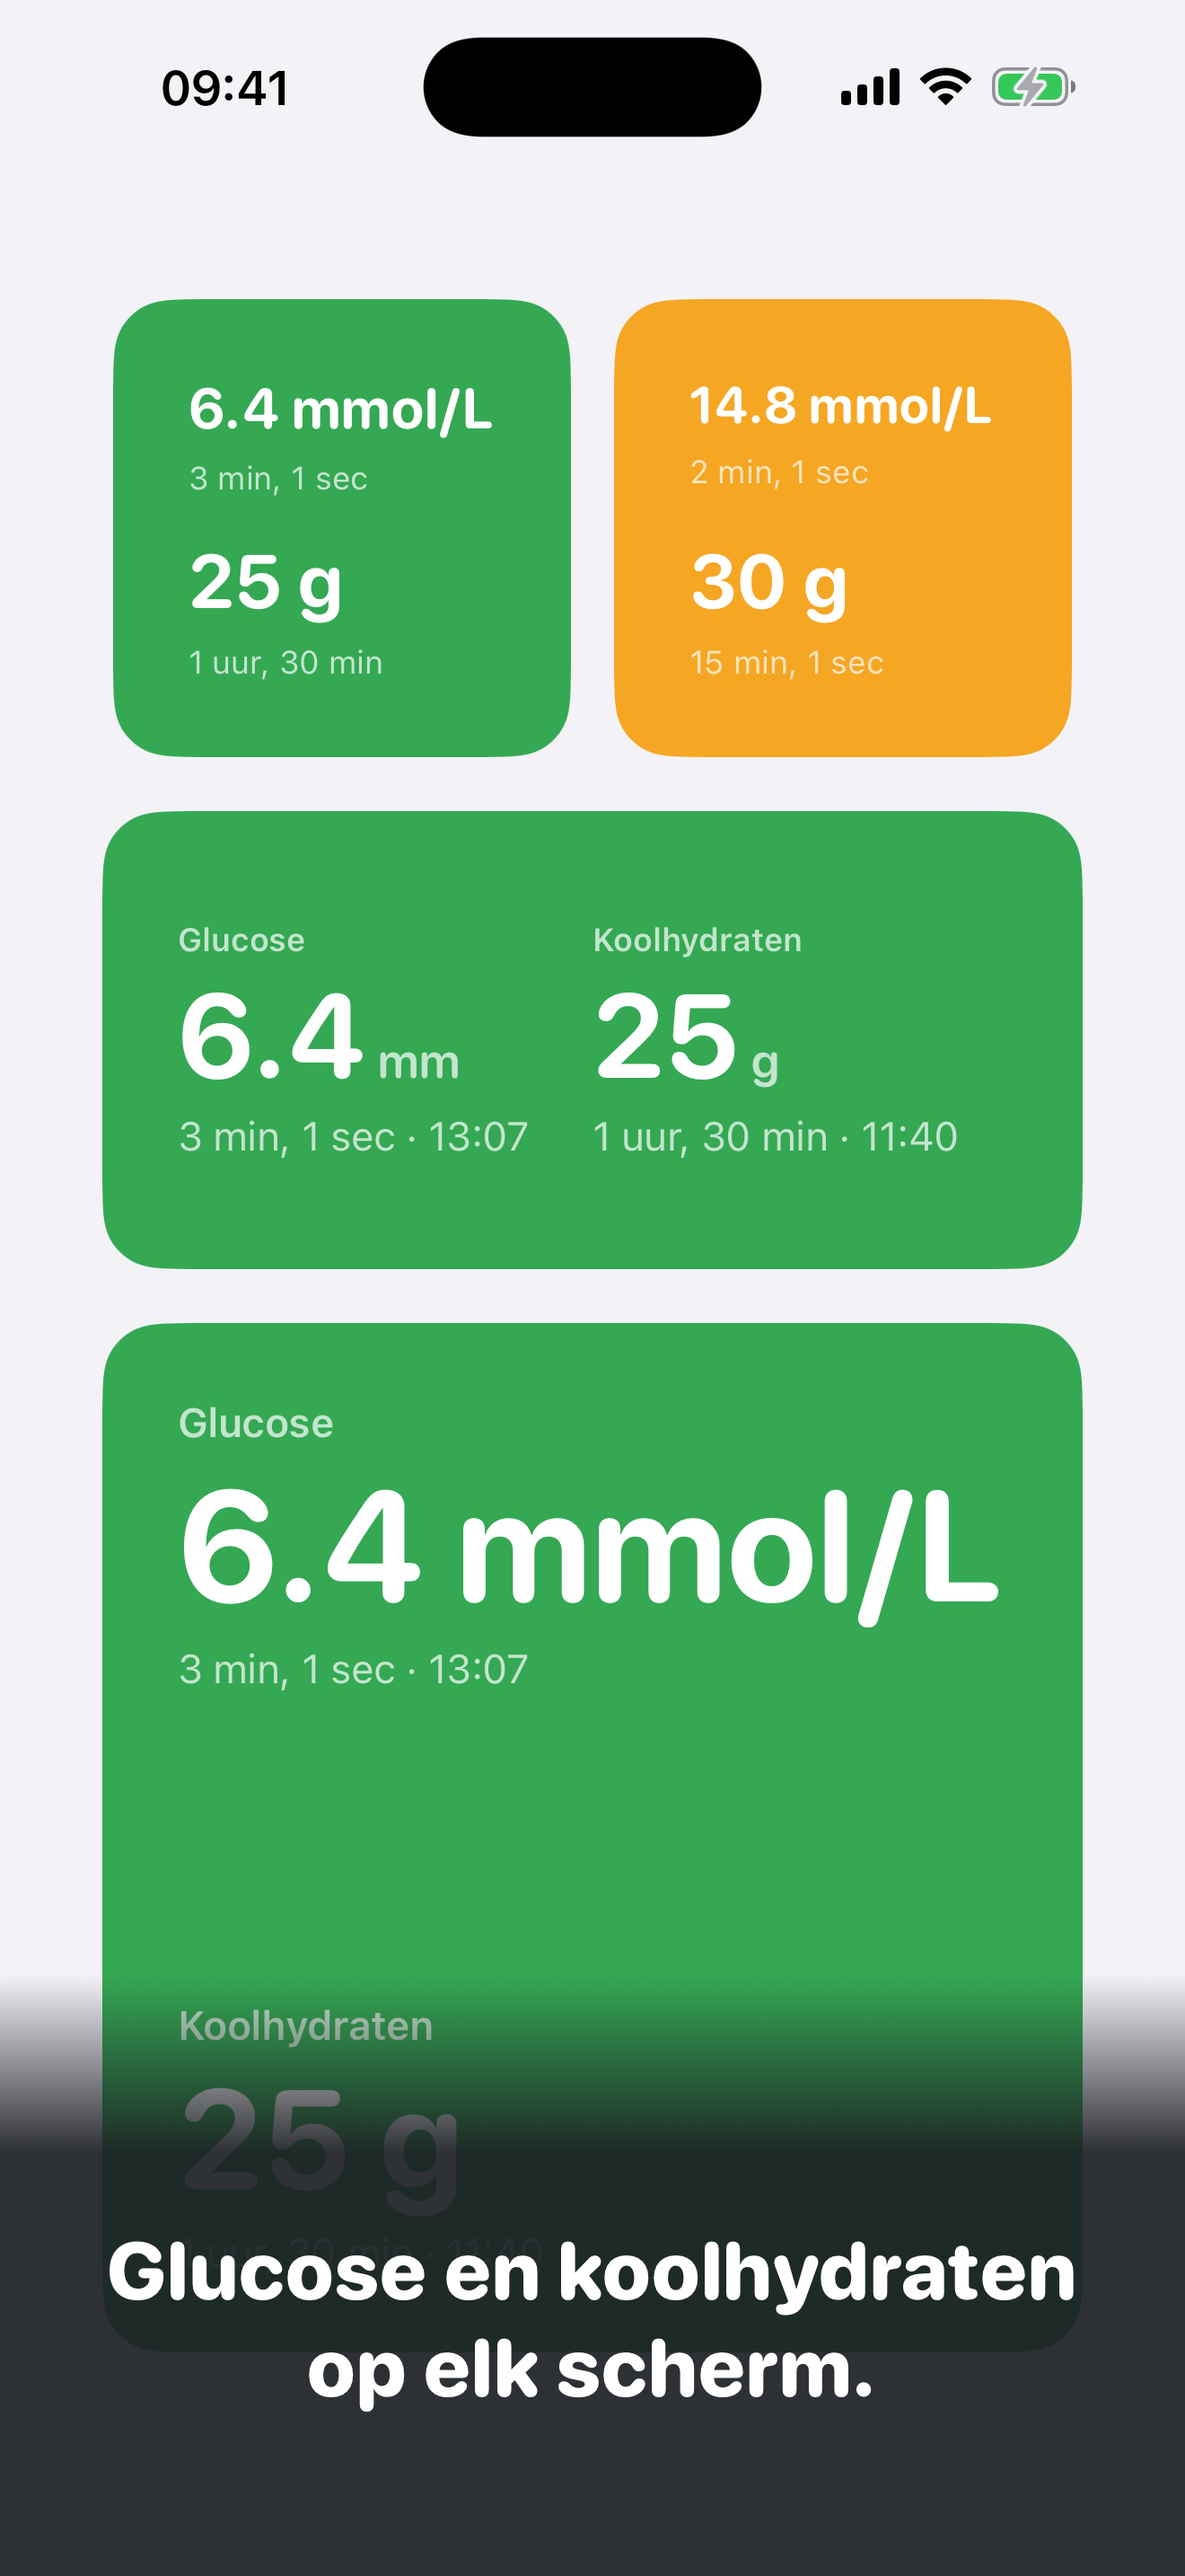
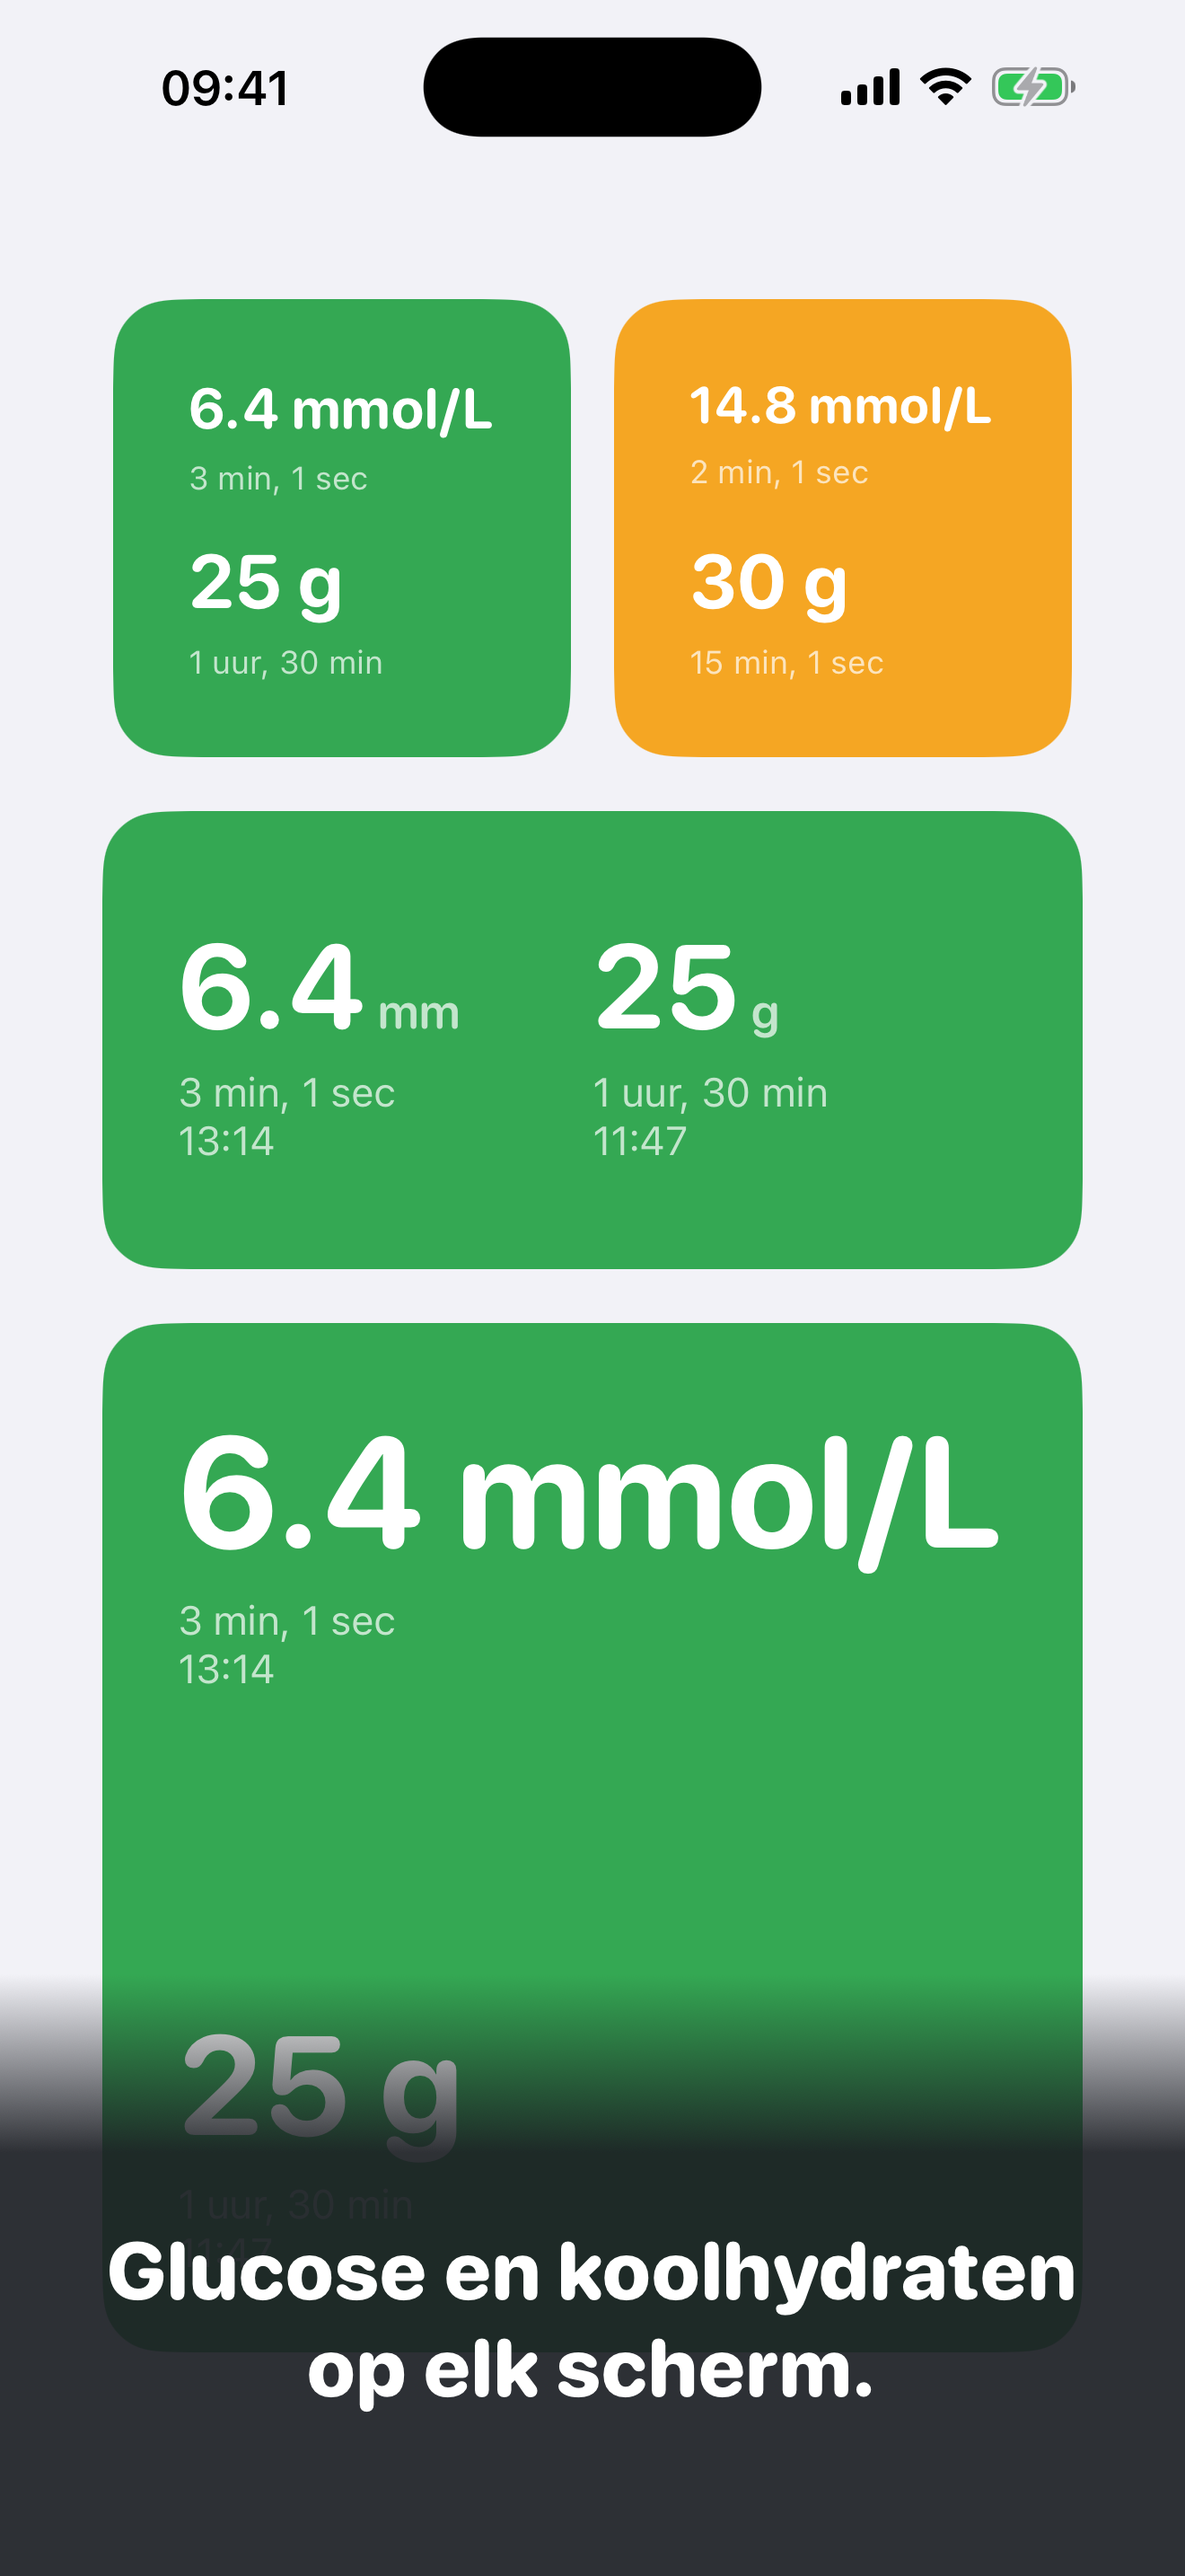
feat(widgets): drop header labels, stack relative and absolute time
The "Glucose" / "Carbs" caption above each big value was redundant —
the number + unit already reads as glucose vs carbs at a glance, and
on the medium tile it competed with the 44pt value for the limited
vertical budget. Drop the header row on medium and large tiles and
reclaim that space to stack the time labels on two lines: relative
age on top (glanceable), absolute time directly below (useful hours
later). No middle-dot separator now that they're on separate lines.

Small + accessory tiles are untouched. `Text(date, style: .time)`
still handles 12/24h per locale (EN shows "1:14 PM", NL shows
"13:14"). Unused "widget.glucose" / "widget.carbs" strings removed
from both the SharedKit resource bundle and the StatusWidget target's
duplicate file.

Refreshed iOS/fastlane/screenshots/{en-US,nl-NL}/04_widgets.png and
synced the docs mirror to match.

Refs #35

diff --git a/iOS/SharedKit/Sources/SharedKit/WidgetTileViews.swift b/iOS/SharedKit/Sources/SharedKit/WidgetTileViews.swift
@@ -29,16 +29,23 @@ private func widgetRelativeAgoText(from date: Date?, hasData: Bool) -> Text {
     return Text(date, style: .relative)
 }
 
-/// Combined "5 min ago · 13:42" line used by the medium and large home-screen
-/// tiles, where there is room to glance at the absolute time hours later
-/// without doing the relative-age math. The middle dot matches the separator
-/// already used by `ShieldContent` formatting; `.time` style lets SwiftUI
+/// Two-line stack used by the medium and large home-screen tiles — relative
+/// age on top, absolute time directly below, no separator. Stacking (vs. a
+/// single "5 min ago · 13:42" line) lets us drop the "Glucose" / "Carbs"
+/// header labels on those tiles: the big value is already self-explanatory
+/// once you know the widget, and reclaiming that row gives the absolute
+/// time enough vertical room to be glanceable. `.time` style lets SwiftUI
 /// pick locale-appropriate 12/24h formatting for free.
-private func widgetRelativeAndAbsoluteTimeText(from date: Date?, hasData: Bool) -> Text {
-    guard hasData, let date else {
-        return Text(String(localized: "widget.noData", bundle: .module))
+@ViewBuilder
+private func widgetStackedTime(from date: Date?, hasData: Bool) -> some View {
+    if hasData, let date {
+        VStack(alignment: .leading, spacing: 0) {
+            Text(date, style: .relative)
+            Text(date, style: .time)
+        }
+    } else {
+        Text(String(localized: "widget.noData", bundle: .module))
     }
-    return Text(date, style: .relative) + Text(" · ") + Text(date, style: .time)
 }
 
 private func widgetGlucoseValue(_ c: ShieldContent) -> String {
@@ -105,10 +112,7 @@ public struct MediumWidgetTile: View {
     public var body: some View {
         let c = content.shieldContent
         HStack(spacing: 0) {
-            VStack(alignment: .leading, spacing: 2) {
-                Text(String(localized: "widget.glucose", bundle: .module))
-                    .font(.caption.bold())
-                    .opacity(0.7)
+            VStack(alignment: .leading, spacing: 4) {
                 HStack(alignment: .firstTextBaseline, spacing: 4) {
                     Text(widgetGlucoseValue(c))
                         .font(.system(size: 44, weight: .bold, design: .rounded))
@@ -118,17 +122,14 @@ public struct MediumWidgetTile: View {
                         .font(.system(size: 18, weight: .semibold, design: .rounded))
                         .opacity(0.7)
                 }
-                widgetRelativeAndAbsoluteTimeText(from: content.glucoseDate, hasData: c.glucoseValue > 0)
+                widgetStackedTime(from: content.glucoseDate, hasData: c.glucoseValue > 0)
                     .font(.subheadline)
                     .opacity(0.7)
                     .lineLimit(1)
             }
             .frame(maxWidth: .infinity, alignment: .leading)
 
-            VStack(alignment: .leading, spacing: 2) {
-                Text(String(localized: "widget.carbs", bundle: .module))
-                    .font(.caption.bold())
-                    .opacity(0.7)
+            VStack(alignment: .leading, spacing: 4) {
                 HStack(alignment: .firstTextBaseline, spacing: 4) {
                     Text(widgetCarbsValue(c))
                         .font(.system(size: 44, weight: .bold, design: .rounded))
@@ -138,7 +139,7 @@ public struct MediumWidgetTile: View {
                         .font(.system(size: 18, weight: .semibold, design: .rounded))
                         .opacity(0.7)
                 }
-                widgetRelativeAndAbsoluteTimeText(from: content.carbDate, hasData: c.carbGrams != nil)
+                widgetStackedTime(from: content.carbDate, hasData: c.carbGrams != nil)
                     .font(.subheadline)
                     .opacity(0.7)
                     .lineLimit(1)
@@ -163,15 +164,12 @@ public struct LargeWidgetTile: View {
     public var body: some View {
         let c = content.shieldContent
         VStack(alignment: .leading, spacing: 0) {
-            VStack(alignment: .leading, spacing: 2) {
-                Text(String(localized: "widget.glucose", bundle: .module))
-                    .font(.subheadline.bold())
-                    .opacity(0.7)
+            VStack(alignment: .leading, spacing: 4) {
                 Text(widgetGlucoseLabel(c))
                     .font(.system(size: 64, weight: .bold, design: .rounded))
                     .minimumScaleFactor(0.5)
                     .lineLimit(1)
-                widgetRelativeAndAbsoluteTimeText(from: content.glucoseDate, hasData: c.glucoseValue > 0)
+                widgetStackedTime(from: content.glucoseDate, hasData: c.glucoseValue > 0)
                     .font(.subheadline)
                     .opacity(0.7)
             }
@@ -179,15 +177,12 @@ public struct LargeWidgetTile: View {
 
             Spacer(minLength: 8)
 
-            VStack(alignment: .leading, spacing: 2) {
-                Text(String(localized: "widget.carbs", bundle: .module))
-                    .font(.subheadline.bold())
-                    .opacity(0.7)
+            VStack(alignment: .leading, spacing: 4) {
                 Text(widgetCarbsLabel(c))
                     .font(.system(size: 52, weight: .bold, design: .rounded))
                     .minimumScaleFactor(0.5)
                     .lineLimit(1)
-                widgetRelativeAndAbsoluteTimeText(from: content.carbDate, hasData: c.carbGrams != nil)
+                widgetStackedTime(from: content.carbDate, hasData: c.carbGrams != nil)
                     .font(.subheadline)
                     .opacity(0.7)
             }
